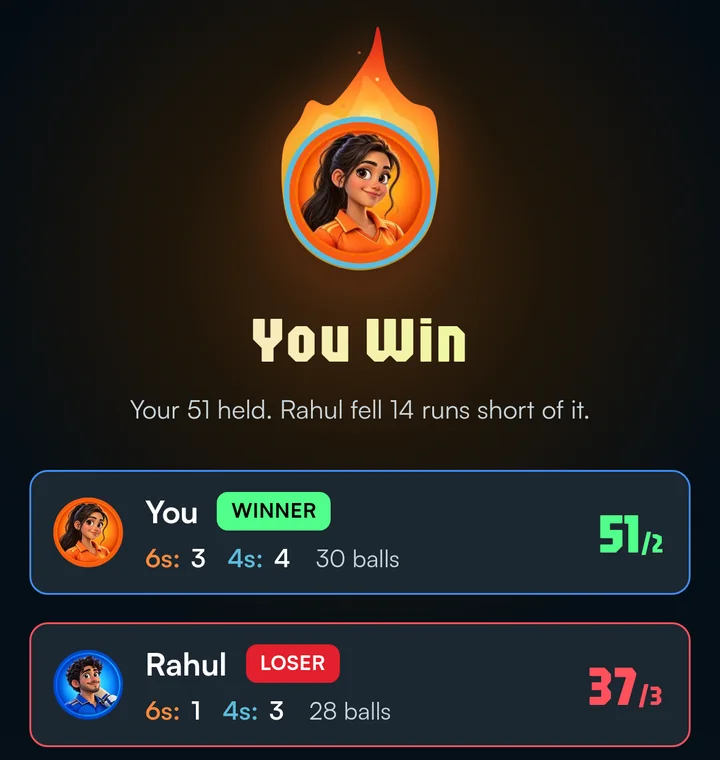
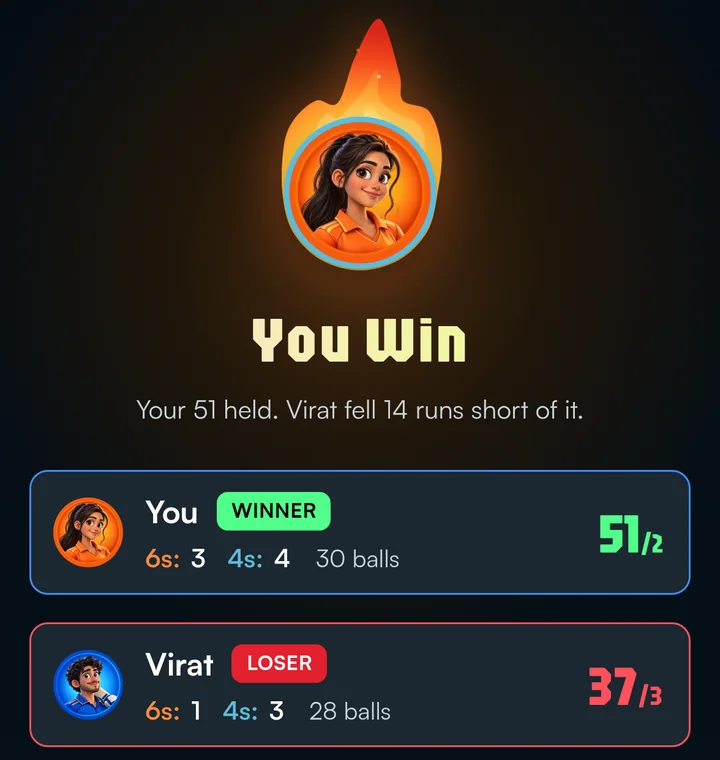
Rivals stories: Virat and Rohit in place of Rahul and Priya
The two demo players in the ?room= fixtures are renamed, the story pictures
are recaptured from them, and the room story's description follows.

Claude-Session: https://claude.ai/code/session_01XMwenBeU1qAZTtzbphEvUv

Changed region(s): [[0.1833, 0.5145, 0.825, 0.575], [0.1833, 0.8474, 0.4889, 0.9079], [0.3972, 0.0303, 0.6111, 0.2118]]

diff --git a/src/game/room-demo.ts b/src/game/room-demo.ts
@@ -68,8 +68,8 @@ function row(
 /** The room for one state, seen by `me`. */
 export function demoRoom(kind: DemoKind, me: string, now = Date.now()): { room: Challenge; interstitial?: { index: number; total: number }; sent?: boolean } {
   const you = (card: string, status: PlayerStatus, over: Partial<ChallengeRow> = {}) => row(me, 'You', 3, card, status, { host: true, ...over }, now);
-  const rahul = (card: string, status: PlayerStatus, over: Partial<ChallengeRow> = {}) => row('demo01-rahulrahulrahul', 'Rahul', 1, card, status, over, now);
-  const priya = (card: string, status: PlayerStatus, over: Partial<ChallengeRow> = {}) => row('demo02-priyapriyapriya', 'Priya', 0, card, status, over, now);
+  const rahul = (card: string, status: PlayerStatus, over: Partial<ChallengeRow> = {}) => row('demo01-rahulrahulrahul', 'Virat', 1, card, status, over, now);
+  const priya = (card: string, status: PlayerStatus, over: Partial<ChallengeRow> = {}) => row('demo02-priyapriyapriya', 'Rohit', 0, card, status, over, now);
   const amit = (card: string, status: PlayerStatus, over: Partial<ChallengeRow> = {}) => row('demo03-amitamitamitam', 'Amit', 4, card, status, over, now);
   const base = (players: ChallengeRow[], state: Challenge['state'], over: Partial<Challenge> = {}): Challenge => ({
     code: 'DEMO42', state, host: players.find(one => one.host)?.playerId ?? me,

diff --git a/src/game/whats-new.ts b/src/game/whats-new.ts
@@ -67,7 +67,7 @@ export const STORIES: readonly Story[] = [
     title: 'Bat against your friends',
     body: 'Make a room, send the link, and everyone who opens it bats the same thirty balls \u2014 together right now, or days apart. Their runs flash up ball by ball. The score stays hidden till your last.',
     art: rivalsRoom,
-    alt: 'The Rivals match room: You, Rahul and Priya seated round a VS, each marked JOINED.',
+    alt: 'The Rivals match room: You, Virat and Rohit seated round a VS, each marked JOINED.',
     width: 720,
     height: 709,
   },
